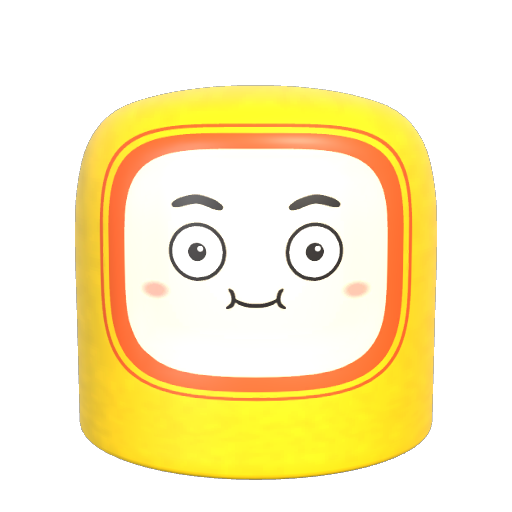
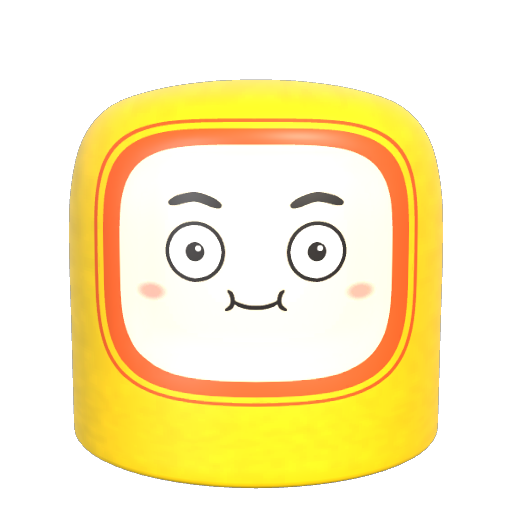
試合終了後のコントローラーの保存

Changed region(s): [[0.125, 0.1562, 0.875, 0.9688], [0.4375, 0.5625, 0.5625, 0.625]]

diff --git a/AmaizingDarumaOtoshi/Assets/Fujihara/Script/Select/MatchSelect.cs b/AmaizingDarumaOtoshi/Assets/Fujihara/Script/Select/MatchSelect.cs
@@ -181,6 +181,8 @@ public class MatchSelect : MonoBehaviour
         public Image flagCloth;
         public Image bg, portrait, portraitImage, typeButton;
         public TextMeshProUGUI label, name, device, join, ok, portraitLetter, typeText, level;
+        public Image[] easeStars;           // 使いやすさの★（フォントに★が無いので画像で描く）
+        public TextMeshProUGUI easeUnknown; // ランダム・まだ選んでいないときの「？」
         public RectTransform levelRow, minus, plus;
     }
 
@@ -316,8 +318,10 @@ public class MatchSelect : MonoBehaviour
         // 試合から戻ってきたときは、ルールはそのままでキャラクターセレクトから始める（スマブラと同じ）
         bool fromMatch = MatchSetup.Players.Count > 0;
         Opened?.Invoke(fromMatch);
+        // 前の試合の参加者（何Pか・CPU とそのレベル）は覚えておいて、枠に戻す（キャラは選び直し）
+        var lastPlayers = new List<MatchSetup.Entry>(MatchSetup.Players);
 
-        // 毎回まっさらな状態から選び直す（前回の試合の選択は引き継がない。ルールだけは引き継ぐ）
+        // キャラ・ステージは毎回選び直す（ルールと参加者の枠は引き継ぐ）
         MatchSetup.Clear();
         var rules = MatchSetup.Rules;
         rules.knockPoints = knockPoints;
@@ -328,6 +332,7 @@ public class MatchSelect : MonoBehaviour
 
         BuildBackground();
         BuildUI();
+        RestorePlayers(lastPlayers);
         var start = NextStartScreen;
         NextStartScreen = StartScreen.Auto;
         if (start == StartScreen.Auto) start = fromMatch ? StartScreen.Character : StartScreen.Mode;
@@ -336,6 +341,20 @@ public class MatchSelect : MonoBehaviour
         else GoToModeSelect();
         SnapScreens();
         InputSystem.onDeviceChange += OnDeviceChange;
+    }
+
+    // 試合から戻ってきたとき、前の試合と同じ枠に同じコントローラー・CPU を入れ直す
+    // （コントローラーが抜かれていたら、その枠は空けておく）
+    void RestorePlayers(List<MatchSetup.Entry> last)
+    {
+        foreach (var e in last)
+        {
+            if (e == null || e.playerIndex < 0 || e.playerIndex >= slots.Length || slots[e.playerIndex] != null) continue;
+            if (e.isCpu) { AddCpu(e.playerIndex, e.cpuLevel); continue; }
+            var device = e.Device;
+            if (device == null || !device.added || FindPlayer(device) != null) continue;
+            AddHuman(e.playerIndex, device);
+        }
     }
 
     void OnDestroy()
@@ -1349,19 +1368,77 @@ public class MatchSelect : MonoBehaviour
             if (!used) continue;
 
             if (cpu) ui.level.text = SelectTexts.F(texts.cpuLevel, p.cpuLevel);
-            else ui.device.text = p.device.displayName + " #" + p.device.deviceId;   // 同じ種類のコントローラーでも見分けられるように
 
+            CharacterData shown = null;   // 使いやすさを出すキャラ（選んだキャラ、まだならカーソルが乗っているキャラ）
             if (p.heldBy != null) SetPortrait(ui, null, texts.chooseCharacter, new Color(0.92f, 0.9f, 0.88f), "");
             else if (p.randomCharacter) SetPortrait(ui, null, texts.randomCharacter, RandomColor, texts.randomLetter);
-            else if (p.character != null) SetPortrait(ui, p.character.portrait, p.character.displayName, p.character.IconColor, Initial(p.character.displayName));
+            else if (p.character != null) { shown = p.character; SetPortrait(ui, p.character.portrait, p.character.displayName, p.character.IconColor, Initial(p.character.displayName)); }
             else
             {
                 // まだ選んでいない：カーソルが乗っているキャラを薄く見せる
                 var hover = !cpu && phase == Phase.Character ? TileAt(charTiles, p.cursor) : null;
-                if (hover != null && !hover.random) SetPortrait(ui, hover.character.portrait, hover.character.displayName, hover.character.IconColor * 0.75f, Initial(hover.character.displayName));
+                if (hover != null && !hover.random) { shown = hover.character; SetPortrait(ui, hover.character.portrait, hover.character.displayName, hover.character.IconColor * 0.75f, Initial(hover.character.displayName)); }
                 else SetPortrait(ui, null, texts.chooseCharacter, new Color(0.92f, 0.9f, 0.88f), "");
             }
+
+            // 使いやすさ（コントローラー名の代わり）：「使いやすさ」の下に★を中央ぞろえで
+            if (!cpu)
+            {
+                ui.device.text = texts.easeLabel;
+                int n = shown != null ? Mathf.Clamp(shown.ease, 1, ui.easeStars.Length) : 0;
+                // ★を数だけ、中央ぞろえで並べる
+                for (int k = 0; k < ui.easeStars.Length; k++)
+                {
+                    ui.easeStars[k].gameObject.SetActive(k < n);
+                    ui.easeStars[k].rectTransform.anchoredPosition = new Vector2((k - (n - 1) * 0.5f) * EaseStarStep, 0f);
+                }
+                ui.easeUnknown.text = shown == null ? texts.easeUnknown : "";
+            }
         }
+    }
+
+    // ★の画像（5つの角の星。最初に使うときに作る）
+    const float EaseStarStep = 34f;
+    static Sprite starSprite;
+    static Sprite StarSprite
+    {
+        get
+        {
+            if (starSprite != null) return starSprite;
+            const int size = 64;
+            var tex = new Texture2D(size, size, TextureFormat.RGBA32, false) { name = "Star", wrapMode = TextureWrapMode.Clamp };
+            var pts = new Vector2[10];
+            for (int i = 0; i < 10; i++)
+            {
+                float a = Mathf.PI * 0.5f + i * Mathf.PI / 5f;
+                float rad = (i % 2 == 0 ? 0.48f : 0.2f) * size;
+                pts[i] = new Vector2(size * 0.5f + Mathf.Cos(a) * rad, size * 0.47f + Mathf.Sin(a) * rad);
+            }
+            var px = new Color32[size * size];
+            for (int y = 0; y < size; y++)
+                for (int x = 0; x < size; x++)
+                {
+                    // 4x4 のサンプルでふちをなめらかに
+                    int hit = 0;
+                    for (int sy = 0; sy < 4; sy++)
+                        for (int sx = 0; sx < 4; sx++)
+                            if (InPolygon(pts, new Vector2(x + (sx + 0.5f) / 4f, y + (sy + 0.5f) / 4f))) hit++;
+                    px[y * size + x] = new Color32(255, 255, 255, (byte)(hit * 255 / 16));
+                }
+            tex.SetPixels32(px);
+            tex.Apply();
+            starSprite = Sprite.Create(tex, new Rect(0, 0, size, size), new Vector2(0.5f, 0.5f));
+            return starSprite;
+        }
+    }
+
+    static bool InPolygon(Vector2[] poly, Vector2 p)
+    {
+        bool inside = false;
+        for (int i = 0, j = poly.Length - 1; i < poly.Length; j = i++)
+            if ((poly[i].y > p.y) != (poly[j].y > p.y) && p.x < (poly[j].x - poly[i].x) * (p.y - poly[i].y) / (poly[j].y - poly[i].y) + poly[i].x)
+                inside = !inside;
+        return inside;
     }
 
     static void SetPortrait(Panel ui, Sprite sprite, string name, Color color, string letter)
@@ -1657,6 +1734,13 @@ public class MatchSelect : MonoBehaviour
             var tile = MakeTile(charRoot, grid[i].pos, grid[i].size, random ? RandomColor : c.IconColor,
                                 random ? null : c.portrait, random ? texts.randomCharacter : c.displayName, random ? texts.randomLetter : Initial(c.displayName));
             tile.character = c;
+            // キャラの顔は大きめに：名前の帯のすぐ上から、マスのふちぎりぎりまで使う
+            var face = tile.rect.Find("Image") as RectTransform;
+            if (face != null)
+            {
+                face.offsetMin = new Vector2(3f, grid[i].size.y * 0.2f);
+                face.offsetMax = new Vector2(-3f, -3f);
+            }
             tile.random = random;
             charTiles.Add(tile);
         }
@@ -2003,9 +2087,23 @@ public class MatchSelect : MonoBehaviour
         ui.name = ToyKit.UIText("Name", r, font, "", 44f, ToyKit.Ink);
         ui.name.enableAutoSizing = true; ui.name.fontSizeMin = 18f; ui.name.fontSizeMax = 44f;
         ToyKit.Anchor(ui.name.rectTransform, new Vector2(1f, 0.5f), new Vector2(-w * 0.28f, -10f), new Vector2(w * 0.5f, 70f));
-        ui.device = ToyKit.UIText("Device", r, font, "", 22f, new Color(ToyKit.Ink.r, ToyKit.Ink.g, ToyKit.Ink.b, 0.7f));
-        ui.device.enableAutoSizing = true; ui.device.fontSizeMin = 12f; ui.device.fontSizeMax = 22f;
-        ToyKit.Anchor(ui.device.rectTransform, new Vector2(1f, 0.5f), new Vector2(-w * 0.28f, -70f), new Vector2(w * 0.5f, 40f));
+        // 使いやすさ（上に「使いやすさ」、下に★を中央ぞろえ）。プレイヤーの枠だけ（CPU は同じ場所に強さ）
+        ui.device = ToyKit.UIText("Ease", r, font, "", 24f, ToyKit.Ink);
+        ToyKit.Anchor(ui.device.rectTransform, new Vector2(1f, 0.5f), new Vector2(-w * 0.28f, -58f), new Vector2(w * 0.5f, 32f));
+        var starRow = new GameObject("Stars", typeof(RectTransform)).GetComponent<RectTransform>();
+        starRow.SetParent(ui.device.rectTransform, false);
+        ToyKit.Anchor(starRow, new Vector2(0.5f, 0f), new Vector2(0f, -22f), new Vector2(w * 0.5f, 34f));
+        ui.easeStars = new Image[5];
+        for (int k = 0; k < ui.easeStars.Length; k++)
+        {
+            var st = ToyKit.UIImage("Star" + k, starRow, new Color(0.96f, 0.68f, 0.1f), StarSprite);
+            ToyKit.Anchor(st, new Vector2(0.5f, 0.5f), Vector2.zero, new Vector2(32f, 32f));
+            st.GetComponent<Image>().type = Image.Type.Simple;
+            var so = st.gameObject.AddComponent<Outline>(); so.effectColor = ToyKit.Ink; so.effectDistance = new Vector2(1.5f, -1.5f);
+            ui.easeStars[k] = st.GetComponent<Image>();
+        }
+        ui.easeUnknown = ToyKit.UIText("Unknown", starRow, font, "", 30f, ToyKit.Ink);
+        ToyKit.Stretch(ui.easeUnknown.rectTransform);
 
         // CPU の強さ（－ Lv3 ＋）
         ui.levelRow = new GameObject("Level", typeof(RectTransform)).GetComponent<RectTransform>();

diff --git a/AmaizingDarumaOtoshi/Assets/Fujihara/Editor/CharacterPortraitBaker.cs b/AmaizingDarumaOtoshi/Assets/Fujihara/Editor/CharacterPortraitBaker.cs
@@ -13,7 +13,7 @@ public static class CharacterPortraitBaker
     const string OutFolder = "Assets/Fujihara/Data/Portraits";
     const int Size = 512;
     // モデルの顔は +Z 側を向いているので、カメラは +Z 側から少し見下ろして撮る
-    const float Pitch = 8f, Fov = 30f, Margin = 0.82f;
+    const float Pitch = 8f, Fov = 30f, Margin = 1.35f;
 
     [MenuItem("Fujihara/キャラの顔写真を撮る")]
     public static void BakeAll()
@@ -68,7 +68,8 @@ public static class CharacterPortraitBaker
             cam.fieldOfView = Fov;
             cam.nearClipPlane = 0.01f;
             cam.farClipPlane = 100f;
-            float radius = b.extents.magnitude * Margin;
+            // 幅と高さの大きい方が、写真いっぱい（Margin の分だけ余白）に入るように
+            float radius = Mathf.Max(b.extents.x, b.extents.y) * Margin;
             float dist = radius / Mathf.Sin(Fov * 0.5f * Mathf.Deg2Rad);
             var rot = Quaternion.Euler(Pitch, 180f, 0f);   // +Z 側から -Z を向く
             cam.transform.SetPositionAndRotation(b.center - rot * Vector3.forward * dist, rot);

diff --git a/AmaizingDarumaOtoshi/Assets/Fujihara/Script/Select/SelectTexts.cs b/AmaizingDarumaOtoshi/Assets/Fujihara/Script/Select/SelectTexts.cs
@@ -59,6 +59,10 @@ public class SelectTexts
     [Tooltip("ランダム・おまかせ・画像の無いところに出す字")]
     public string randomLetter = "？";
     public string chooseCharacter = "えらんでね";
+    [Tooltip("枠に出す、キャラの使いやすさの見出し（下に★が並ぶ。★の数は CharacterData の ease）")]
+    public string easeLabel = "使いやすさ";
+    [Tooltip("ランダム・まだ選んでいないときに★の代わりに出す字")]
+    public string easeUnknown = "？";
     public string join = "A / Start で参加";
     public string typeNone = "なし";
     public string typeCpu = "CPU";

diff --git a/AmaizingDarumaOtoshi/Assets/Fujihara/Script/Select/CharacterData.cs b/AmaizingDarumaOtoshi/Assets/Fujihara/Script/Select/CharacterData.cs
@@ -23,6 +23,9 @@ public class CharacterData : ScriptableObject
     [Tooltip("ゲーム本編で生成するプレハブ（未設定でも可）")]
     public GameObject prefab;
 
+    [Tooltip("使いやすさ（★の数）。キャラクターセレクトの枠に出る")]
+    [Range(1, 5)] public int ease = 3;
+
     [Header("パッシブ（ずかんでは「[赤][赤][赤] → 効果」の形で出る）")]
     [Tooltip("条件になる積み木の色")]
     public Nakahira.TumikiColor passiveColor = Nakahira.TumikiColor.Red;
